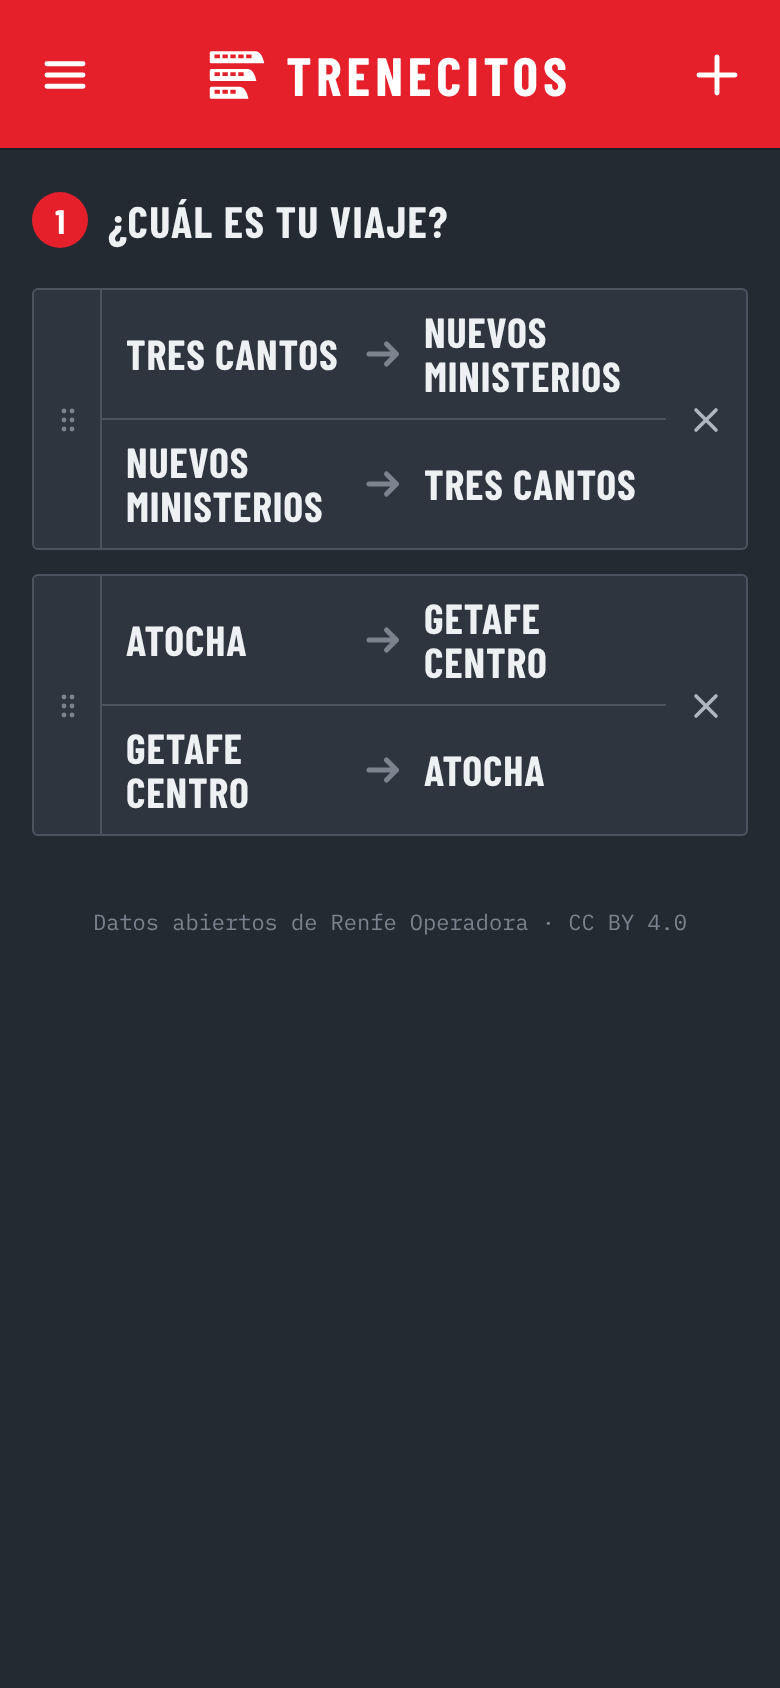
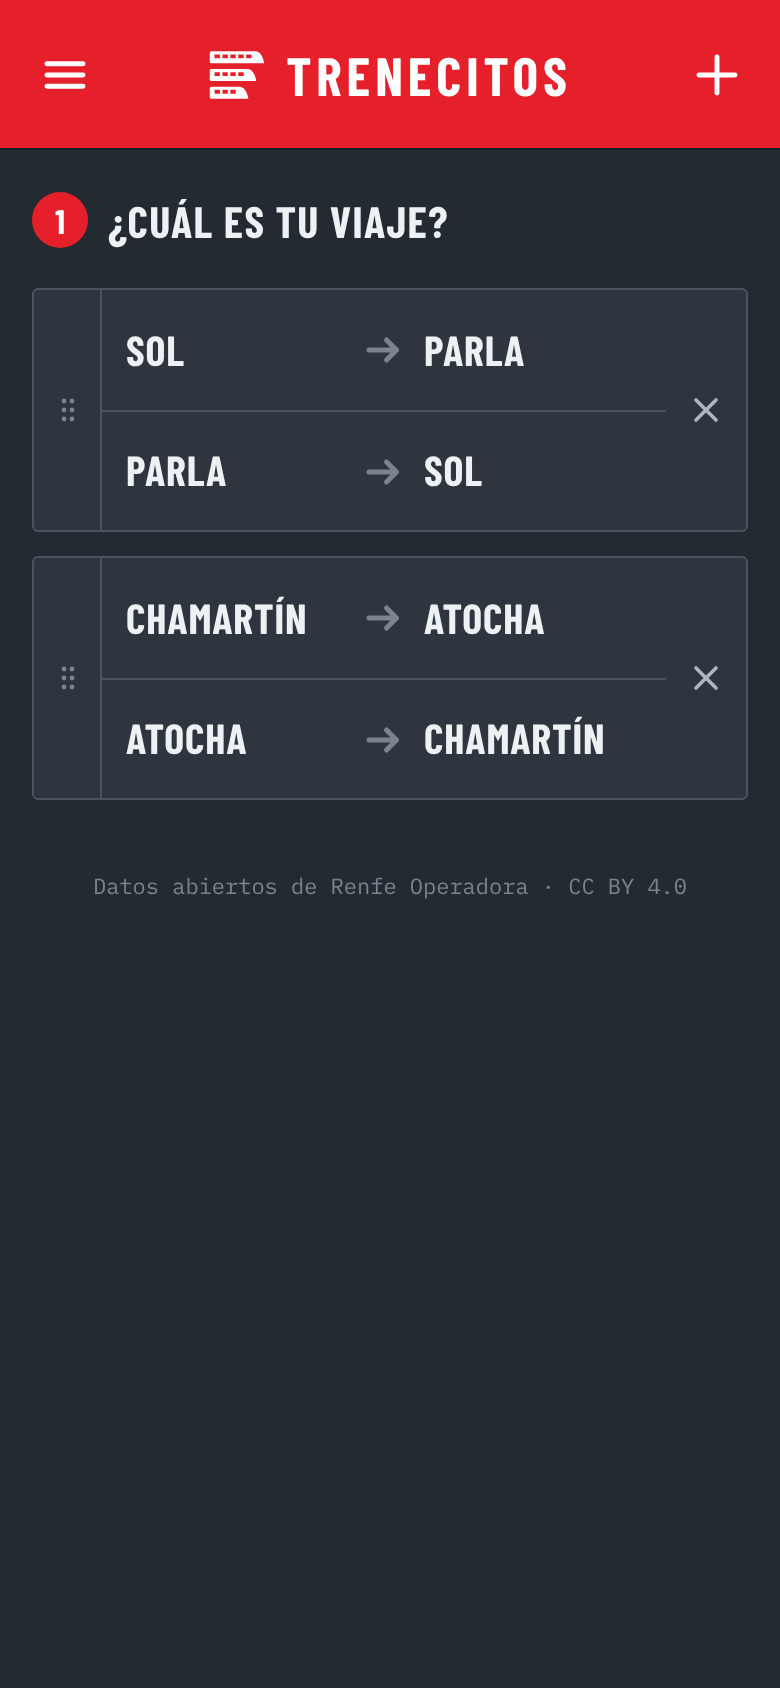
Paso 2 alineado, notificación más clara, capturas Sol → Parla y vista previa con menos rojo
- Paso 2: la etiqueta de línea va junto a la hora de salida y llegada, sentido y estado parten del mismo borde.
- Notificación: "Salida HH:MM · Vía N"; debajo el trayecto, la llegada y la hora de los datos, cada uno en su línea.
  Sin imagen grande a la derecha; icono propio en la barra de estado (icons/badge-96.png, generado en el build).
- Demo: simula la C4a (Alcobendas – Parla) con Sol → Parla y Chamartín → Atocha; capturas y og.png rehechas.
- og.png: fondo pizarra con un bloque rojo detrás del móvil.

Claude-Session: https://claude.ai/code/session_01XLSZweWBaZnbtfzxbgLFJy

diff --git a/src/notify.js b/src/notify.js
@@ -13,19 +13,19 @@ export function askPermission() {
   if (ok() && Notification.permission === 'default') Notification.requestPermission().catch(() => {});
 }
 
+// Textos cortos: título con lo esencial; debajo, el trayecto, la llegada y la hora de los datos, cada cosa en su línea.
 function text(ride, d, now) {
-  const head = `${ride.from.name} → ${ride.to.name}`;
-  if (!d) return { title: `Tu tren de las ${hhmm(ride.schedDep)}`, body: head };
+  const route = `${ride.from.name} → ${ride.to.name}`;
+  if (!d) return { title: `Salida ${hhmm(ride.schedDep)}`, body: route };
   const t = d.train, inf = rideInfo(d, now);
-  const upd = `Actualizado a las ${hhmm(d.updatedAt || now)}`;
+  const upd = `Actualizado ${hhmm(d.updatedAt || now)}`;
   const late = t.delay >= 60 ? ` · retraso ${Math.round(t.delay / 60)} min` : '';
-  if (inf.phase === 'cancelled') return { title: 'Tu tren está cancelado', body: `${head}\n${upd}` };
+  if (inf.phase === 'cancelled') return { title: 'Tren cancelado', body: `${route}\n${upd}` };
   if (inf.phase === 'riding') {
     const next = inf.left === 1 ? 'Bajas en la siguiente' : `Siguiente: ${inf.next.name}`;
-    return { title: `Llegas a las ${hhmm(t.estArr)}${late}`, body: `${next}\n${upd}` };
+    return { title: `Llegada ${hhmm(t.estArr)}${late}`, body: `${route}\n${next}\n${upd}` };
   }
-  const via = t.platform ? ` · vía ${t.platform}` : '';
-  return { title: `Tu tren sale a las ${hhmm(t.estDep)}${via}${late}`, body: `${head} · llegas a las ${hhmm(t.estArr)}\n${upd}` };
+  return { title: `Salida ${hhmm(t.estDep)}${t.platform ? ` · Vía ${t.platform}` : ''}`, body: `${route}\nLlegada ${hhmm(t.estArr)}${late}\n${upd}` };
 }
 
 export async function show(ride, d, now = Date.now()) {
@@ -35,7 +35,7 @@ export async function show(ride, d, now = Date.now()) {
     const { title, body } = text(ride, d, now);
     await reg.showNotification(title, {
       body, tag: TAG, renotify: false, silent: true,
-      icon: 'icons/icon-192.png', timestamp: d && d.updatedAt ? d.updatedAt : now,
+      badge: 'icons/badge-96.png', timestamp: d && d.updatedAt ? d.updatedAt : now,
     });
   } catch { /* el navegador puede negarlo */ }
 }

diff --git a/src/mock.js b/src/mock.js
@@ -2,17 +2,17 @@
 //   stations()                      -> [{ id, name }]
 //   departures(from, to, now)       -> { updatedAt, hops, trains: [Train] }
 //   detail(key, from, to, now)      -> { train, stops, here, alerts, updatedAt }
-// Los ids de estación son reales solo para Tres Cantos (17004) y Nuevos Ministerios (18002).
+// Simula la C4a (Alcobendas-San Sebastián de los Reyes – Parla). Los ids son inventados salvo Nuevos Ministerios (18002).
 
 export const DEMO = true;
-const LINE = 'C4b';
+const LINE = 'C4a';
 const HEAD = 15 * 60e3;          // un tren cada 15 min por sentido
 const MIN = 60e3;
 
-// [id, nombre, minutos desde Colmenar Viejo (sentido sur)]
+// [id, nombre, minutos desde Alcobendas (sentido sur)]
 const ROUTE = [
-  ['d01', 'Colmenar Viejo', 0],
-  ['17004', 'Tres Cantos', 6],
+  ['d01', 'Alcobendas-San Sebastián de los Reyes', 0],
+  ['d02', 'Valdelasfuentes', 4],
   ['d03', 'Cantoblanco Universidad', 12],
   ['d04', 'Fuente de la Mora', 17],
   ['d05', 'Chamartín', 24],
@@ -48,7 +48,7 @@ function trip(k, south, delayOverride) {
     key: `${south ? 'S' : 'N'}${k}`,
     k, south, start, delay, cancelled,
     number: String(20000 + (k * 37 + (south ? 508 : 211)) % 900),
-    headsign: south ? 'Parla' : 'Colmenar Viejo',
+    headsign: south ? 'Parla' : 'Alcobendas-San Sebastián de los Reyes',
   };
 }
 

diff --git a/src/ui.js b/src/ui.js
@@ -32,12 +32,9 @@ function trainRow(t, i, now) {
   const live = t.status !== 'cancelled';
   return `<div class="tr${i === 0 ? ' tr--next' : ''}${live ? '' : ' tr--off'}">
     <button type="button" class="tr__open" data-act="pick" data-key="${esc(t.key)}"${live ? '' : ' disabled'}>
-      ${badge(t.line)}
-      <span class="tr__main">
-        <span class="tr__dep">${changed ? `<s>${hhmm(t.schedDep)}</s>` : ''}${hhmm(t.estDep)}</span>
-        <span class="tr__arr">Llega a las <b>${hhmm(t.estArr)}</b></span>
-        <span class="tr__sub">${dayTag(t.estDep, now) ? `<b class="tr__day">${dayTag(t.estDep, now)}</b> · ` : ''}Tren sentido ${esc(t.headsign)}</span>
-      </span>
+      <span class="tr__top">${badge(t.line)}<span class="tr__dep">${changed ? `<s>${hhmm(t.schedDep)}</s>` : ''}${hhmm(t.estDep)}</span></span>
+      <span class="tr__arr">Llega a las <b>${hhmm(t.estArr)}</b></span>
+      <span class="tr__sub">${dayTag(t.estDep, now) ? `<b class="tr__day">${dayTag(t.estDep, now)}</b> · ` : ''}Tren sentido ${esc(t.headsign)}</span>
       ${live
         ? `<span class="tr__eta${e.soon ? ' is-soon' : ''}${e.long ? ' is-long' : ''}" data-eta="${t.estDep}" data-k="${esc(etaKey(e))}">${etaHTML(e)}</span>`
         : '<span class="tr__eta"><b>—</b></span>'}

diff --git a/styles.css b/styles.css
@@ -427,3 +427,18 @@ svg { display: block; }
 .hint p { flex: 1; font: 400 13px/1.35 var(--mono); }
 .hint .btn-add { flex: none; }
 .hint .icon-btn { flex: none; margin: 0; }
+
+/* Paso 2: fila de tren alineada a un solo borde. Arriba línea + salida; debajo llegada, sentido y estado; a la derecha la cuenta atrás. */
+.tr__open {
+  grid-template-columns: minmax(0, 1fr) auto; grid-template-areas: "top eta" "arr eta" "sub sub" "st st";
+  column-gap: 12px; row-gap: 0; align-items: center; padding: 14px 16px;
+}
+.tr__top { grid-area: top; display: flex; align-items: center; gap: 12px; min-width: 0; }
+.tr__top .badge { margin: 0; }
+.tr__arr { grid-area: arr; margin-top: 6px; }
+.tr__sub { grid-area: sub; margin-top: 8px; }
+.tr__eta { grid-area: eta; align-self: center; }
+.tr__state { grid-area: st; margin-top: 8px; }
+.tr--next .tr__open { padding-top: 16px; padding-bottom: 16px; }
+.tr--next .badge { margin: 0; }
+.tr__top .badge, .tr--next .tr__top .badge { margin-top: 4px; }

diff --git a/src/app.js b/src/app.js
@@ -51,7 +51,7 @@ async function init() {
   }
   else if (src.DEMO) {                 // solo en modo demostración: dos viajes de ejemplo
     const by = id => stationList.find(s => s.id === id);
-    trips = [['17004', '18002'], ['d08', 'd10']].map(([a, b]) => ({ id: uid(), from: by(a), to: by(b) }));
+    trips = [['d07', 'd11'], ['d05', 'd08']].map(([a, b]) => ({ id: uid(), from: by(a), to: by(b) }));
     store.save(trips);
   }
   $('demo').hidden = !src.DEMO;
